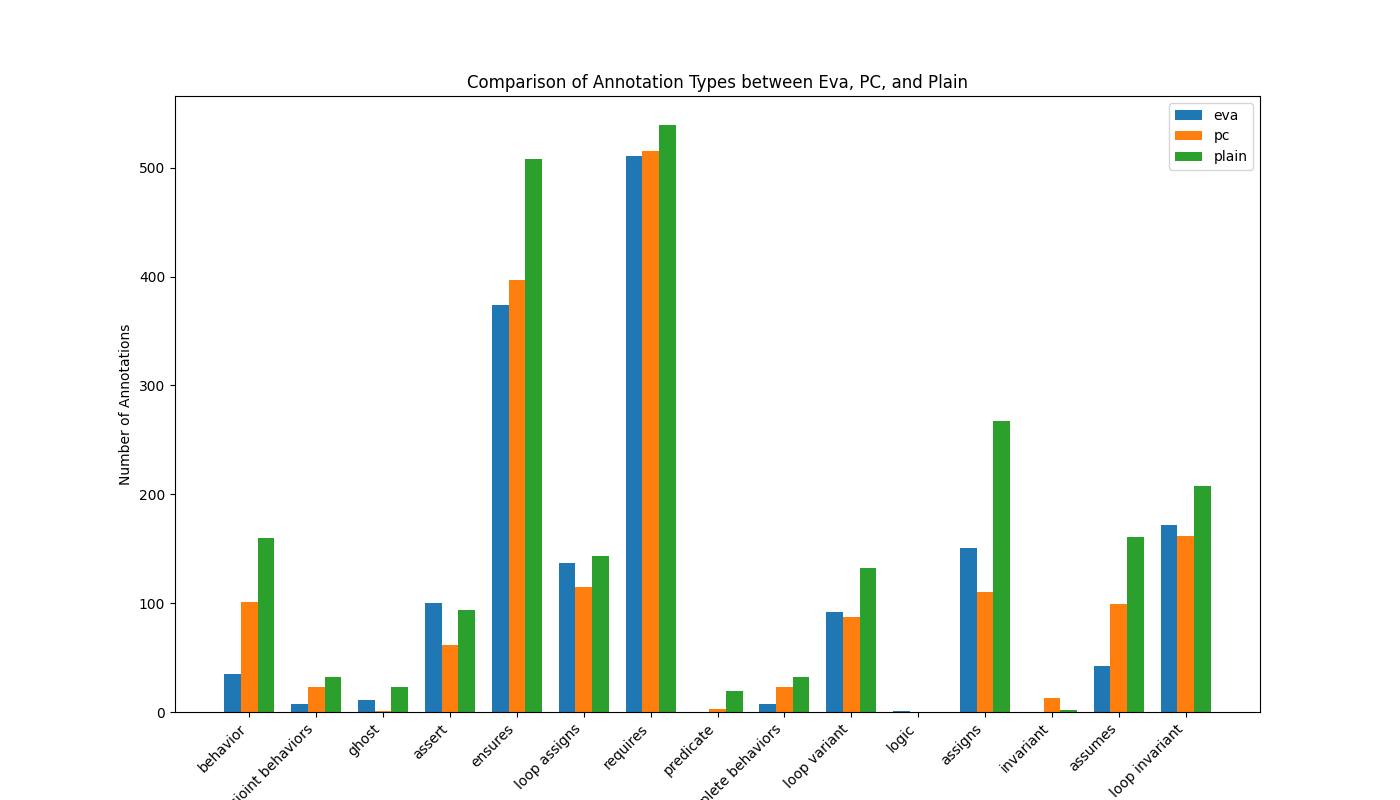
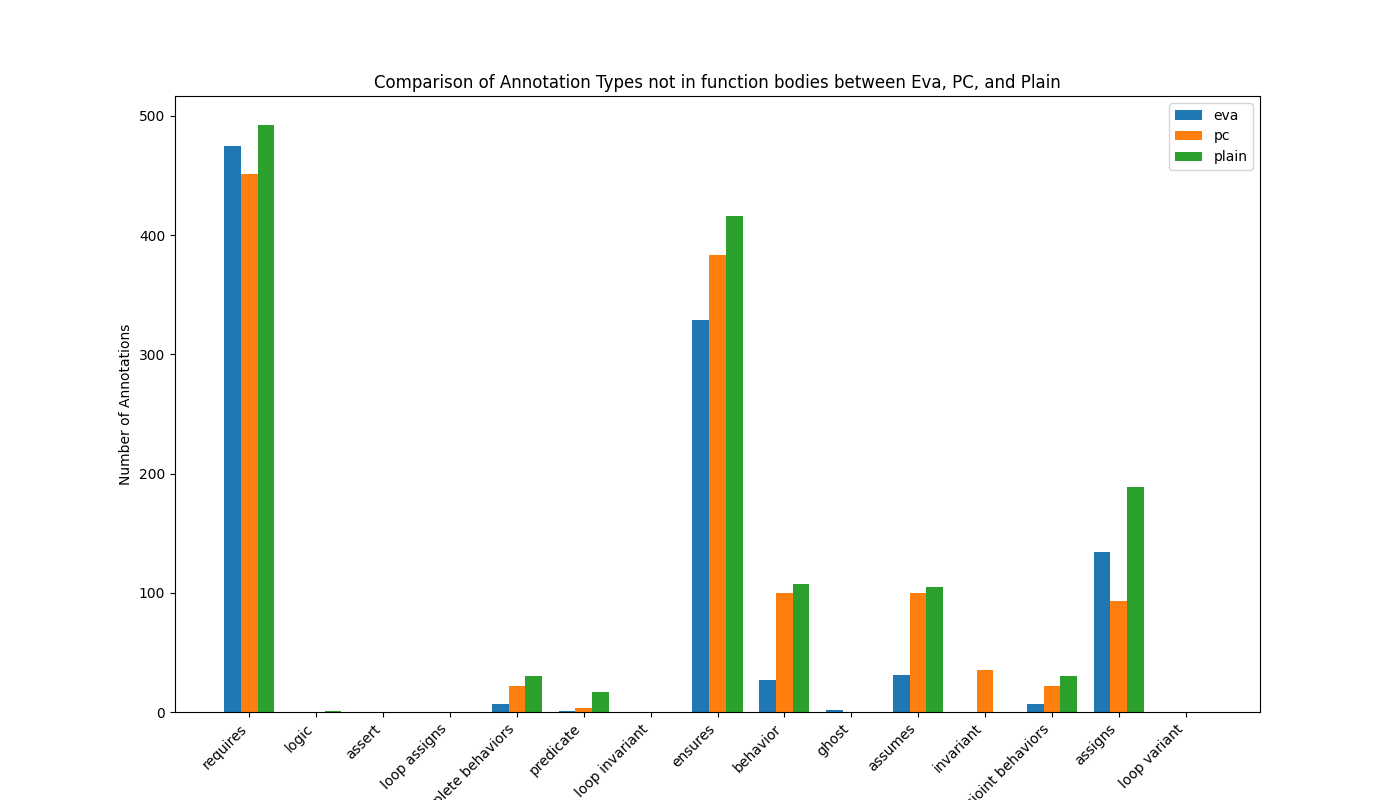
bar graphs comitted

diff --git a/src/analysis/generate_proof_goals_bar.py b/src/analysis/generate_proof_goals_bar.py
@@ -1,11 +1,15 @@
 import matplotlib.pyplot as plt
 
 # Data
-categories = ['PC Analysis', 'Plain Analysis']
-total_goals = [4098, 5817]
-proven_goals = [2873, 4517]
-no_assigns_goals = [3303, 4084]
-no_assigns_proven = [2982, 4084]
+categories = ["Plain", "PC", "Eva"]
+total_goals = [5631, 4671, 5032]
+proven_goals = [4421, 3251, 3769]
+
+loop_inv_goals = [424, 350, 364]
+loop_inv_proven_goals = [321, 260, 289]
+
+ensures_goals = [434, 420, 369]
+ensures_proven = [308, 277, 290]
 
 x = range(len(categories))  # the label locations
 
@@ -14,12 +18,26 @@ fig, ax = plt.subplots()
 bar_width = 0.35  # the width of the bars
 opacity = 0.8
 
-rects1 = ax.bar(x, no_assigns_goals, bar_width, alpha=opacity, color='b', label='Total Goals without assigns clasuses')
-rects2 = ax.bar([p + bar_width for p in x], no_assigns_proven, bar_width, alpha=opacity, color='g', label='Proven Goals without assigns clauses')
+rects1 = ax.bar(
+    x,
+    ensures_goals,
+    bar_width,
+    alpha=opacity,
+    color="b",
+    label="Total Goals",
+)
+rects2 = ax.bar(
+    [p + bar_width for p in x],
+    ensures_proven,
+    bar_width,
+    alpha=opacity,
+    color="g",
+    label="Proven Goals",
+)
 
-ax.set_xlabel('Analysis Type')
-ax.set_ylabel('Number of Goals')
-ax.set_title('WP Analysis Results Comparison')
+ax.set_xlabel("Analysis Type")
+ax.set_ylabel("Number of Goals")
+ax.set_title("WP Analysis Results Comparison for postconditions")
 ax.set_xticks([p + bar_width / 2 for p in x])
 ax.set_xticklabels(categories)
 ax.legend()
@@ -27,12 +45,14 @@ ax.legend()
 # Adding counts above bars
 for rect in rects1 + rects2:
     height = rect.get_height()
-    ax.annotate('{}'.format(height),
-                xy=(rect.get_x() + rect.get_width() / 2, height),
-                xytext=(0, 3),  # 3 points vertical offset
-                textcoords="offset points",
-                ha='center', va='bottom')
+    ax.annotate(
+        "{}".format(height),
+        xy=(rect.get_x() + rect.get_width() / 2, height),
+        xytext=(0, 3),  # 3 points vertical offset
+        textcoords="offset points",
+        ha="center",
+        va="bottom",
+    )
 
 plt.tight_layout()
 plt.show()
-

diff --git a/src/analysis/create_count_bar_graph.py b/src/analysis/create_count_bar_graph.py
@@ -12,12 +12,22 @@ data = {
         "eva": {'requires': 489, 'ensures': 335, 'loop invariant': 172, 'assert': 155, 'assigns': 149, 'loop assigns': 138, 'loop variant': 91, 'assumes': 40, 'behavior': 36, 'complete behaviors': 7, 'disjoint behaviors': 7, 'ghost': 6, 'predicate': 1}
         }
 
+body_data = {
+        "plain": {'loop invariant': 204, 'assert': 161, 'loop assigns': 139, 'loop variant': 130, 'assigns': 79, 'behavior': 35, 'assumes': 35, 'ensures': 31, 'requires': 12, 'ghost': 7},
+        "pc": {'loop invariant': 160, 'loop assigns': 111, 'assert': 92, 'loop variant': 87, 'assigns': 20, 'requires': 8, 'ensures': 4, 'ghost': 1},
+        "eva": {'loop invariant': 172, 'assert': 155, 'loop assigns': 138, 'loop variant': 91, 'assigns': 15, 'requires': 14, 'behavior': 9, 'assumes': 9, 'ensures': 6, 'ghost': 4}
+        }
+
+nonbody_data = {category: {key: data[category].get(key, 0) - body_data[category].get(key, 0)
+                          for key in data[category]}
+               for category in data}
+
 # Extracting all annotation types and their values for each set
-annotation_types = list(set().union(data['eva'], data['pc'], data['plain']))
+annotation_types = list(set().union(nonbody_data['eva'], nonbody_data['pc'], nonbody_data['plain']))
 sets = ['eva', 'pc', 'plain']
 
 # Preparing the values matrix for each annotation type across different sets
-values = [[data[set].get(annotation, 0) for annotation in annotation_types] for set in sets]
+values = [[nonbody_data[set].get(annotation, 0) for annotation in annotation_types] for set in sets]
 
 # Creating the bar graph for all annotation types
 fig, ax = plt.subplots(figsize=(14, 8)) # Adjusted for better display of all annotation types
@@ -30,7 +40,7 @@ for i, set_values in enumerate(values):
 
 ax.set_xlabel('Annotation Type')
 ax.set_ylabel('Number of Annotations')
-ax.set_title('Comparison of Annotation Types between Eva, PC, and Plain')
+ax.set_title('Comparison of Annotation Types not in function bodies between Eva, PC, and Plain')
 ax.set_xticks([i + bar_width for i in range(len(annotation_types))])
 ax.set_xticklabels(annotation_types, rotation=45, ha="right")
 ax.legend()
